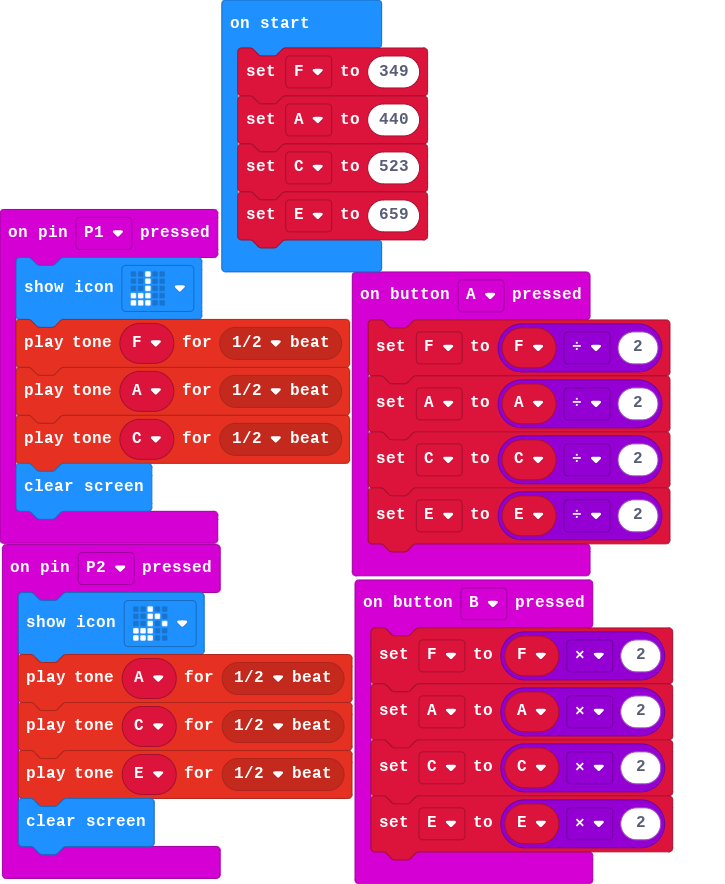
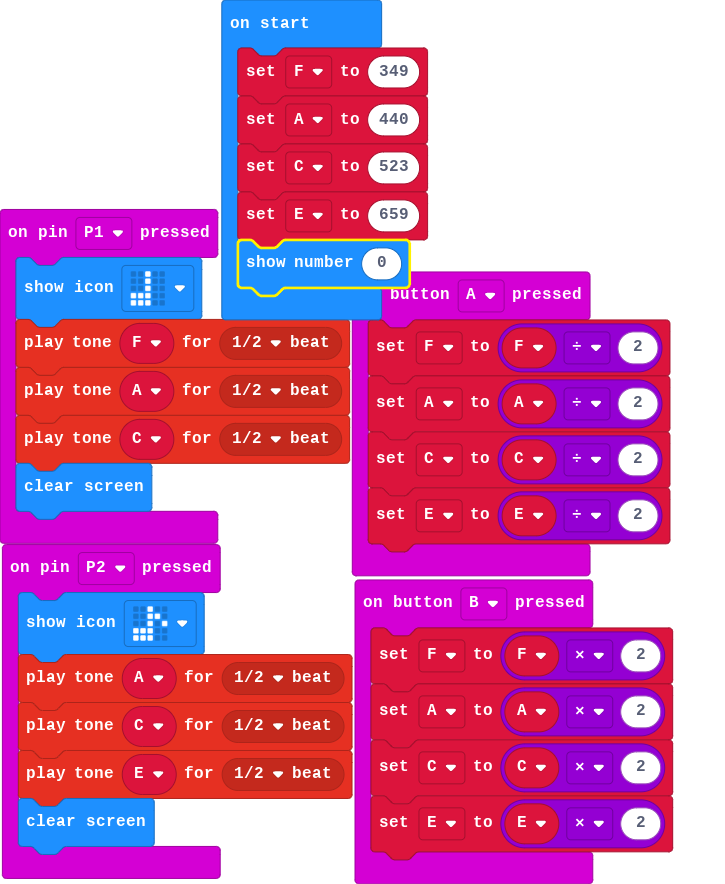
Update main.blocks, main.ts

Changed region(s): [[0.3034, 0.2443, 0.5766, 0.3665]]

diff --git a/main.ts b/main.ts
@@ -32,3 +32,4 @@ F = 349
 A = 440
 C = 523
 E = 659
+basic.showNumber(0)
